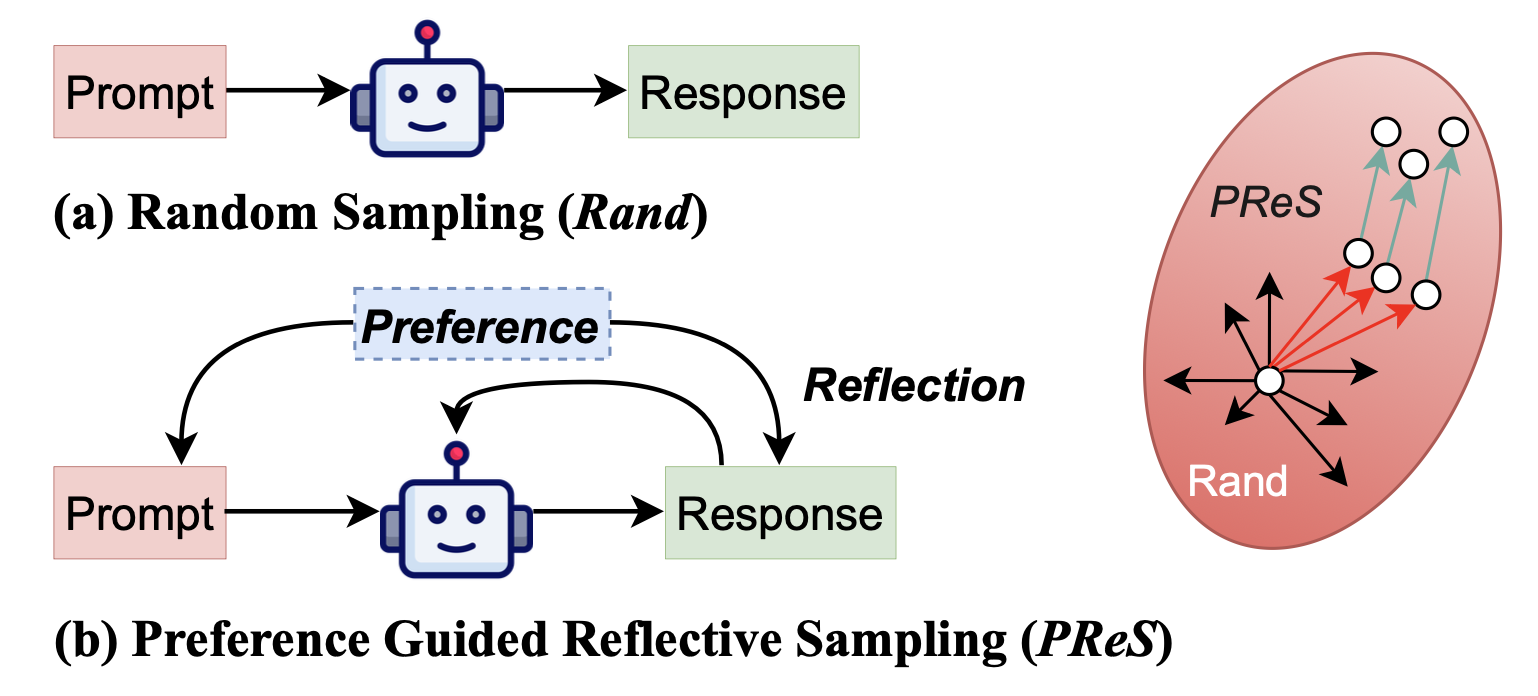
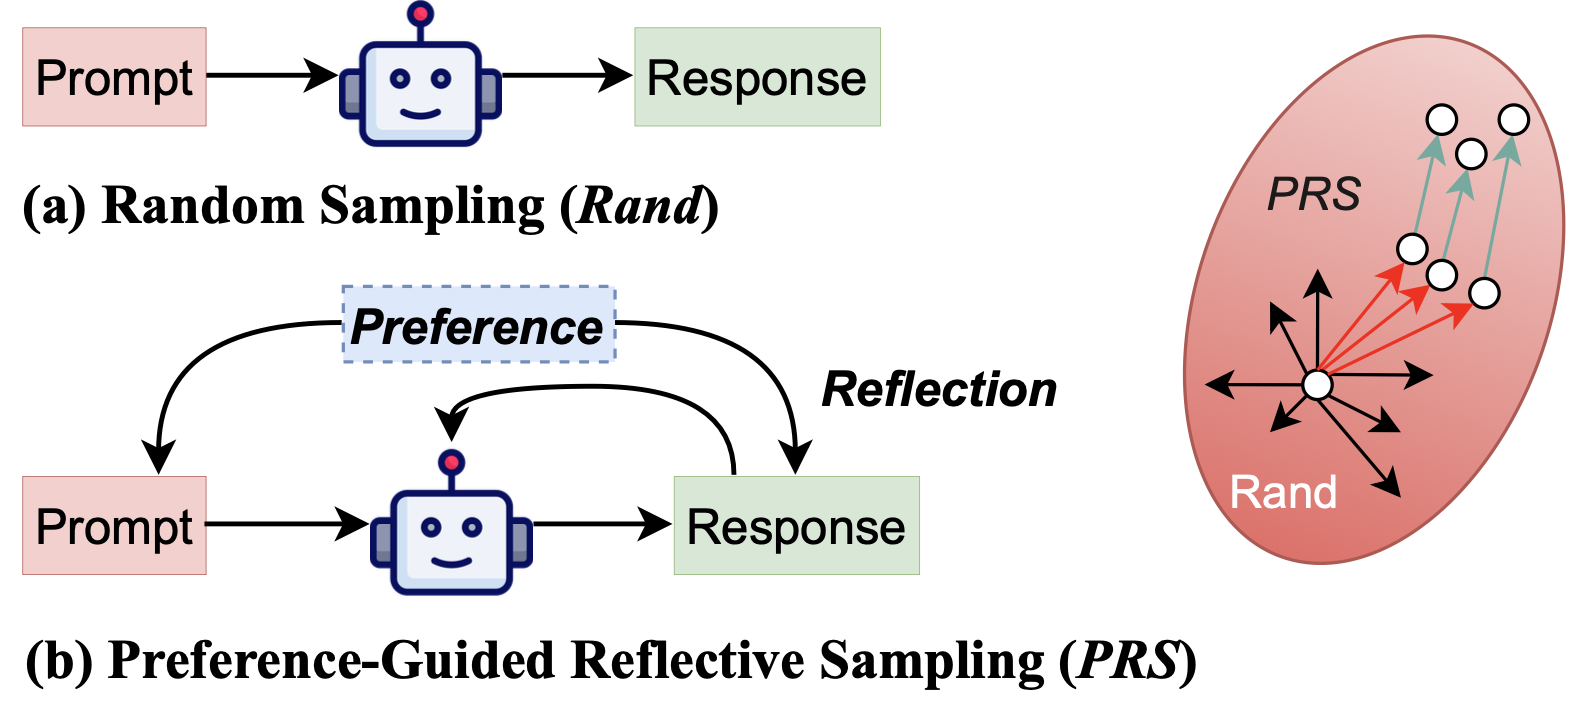
update readme

diff --git a/README.md b/README.md
@@ -1,5 +1,5 @@
 ## PReS
-Code for our paper [Preference Guided Reflective Sampling for Aligning Language Models](). We provide the code for generating data with *PReS*, where the generated data can be used in offline RL training for aligning a language model. For comparison, we also include the baseline sampling methods such as random sampling.
+Code for our paper [Preference Guided Reflective Sampling for Aligning Language Models](). We provide the code for generating data with *PRS*, where the generated data can be used in offline RL training for aligning a language model. For comparison, we also include the baseline sampling methods such as random sampling.
 
 
 
@@ -10,14 +10,14 @@ Code for our paper [Preference Guided Reflective Sampling for Aligning Language 
   - [Requirements](#requirements)
 
 ## Overview
-We propose a new sampling method named *Preference Guided Reflective Sampling for Aligning Language Models (PReS)*. *PReS* frames the data generation as the optimization process to a specified user preference described in natural language, such that "Can you give me a concise response without explanations?". 
+We propose a new sampling method named *Preference Guided Reflective Sampling for Aligning Language Models (PRS)*. *PRS* frames the data generation as the optimization process to a specified user preference described in natural language, such that "Can you give me a concise response without explanations?". 
 
 <img src="./figures/compare_random.png" height="200" alt="Description of Image">
 
 
 
 ## Method
-*PReS* employs a tree-based generation approach to optimize outputs aligned to user preference. 
+*PRS* employs a tree-based generation approach to optimize outputs aligned to user preference. 
 
 ![](./figures/method.png)
 
@@ -40,7 +40,7 @@ Then run:
 bash run_best_of_N.eval_mode.sh
 ```
 
-For *PReS*, you will get two files of responses. You can combine them with `combine_for_tree_search.py`:
+For *PRS*, you will get two files of responses. You can combine them with `combine_for_tree_search.py`:
 
 ```bash
 python combine_for_tree_search.py path_to_initial_response path_to_refinement path_to_save
